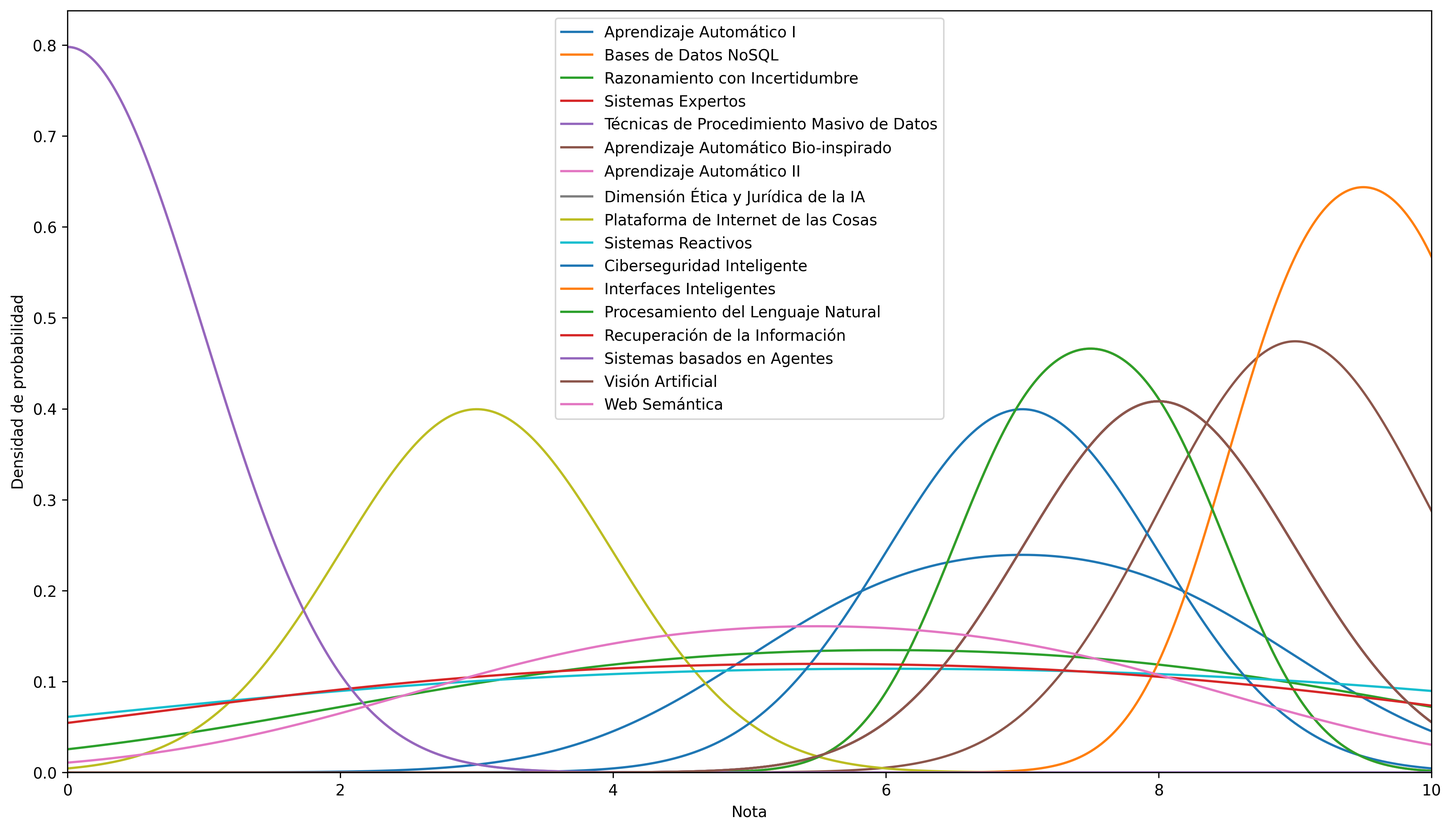
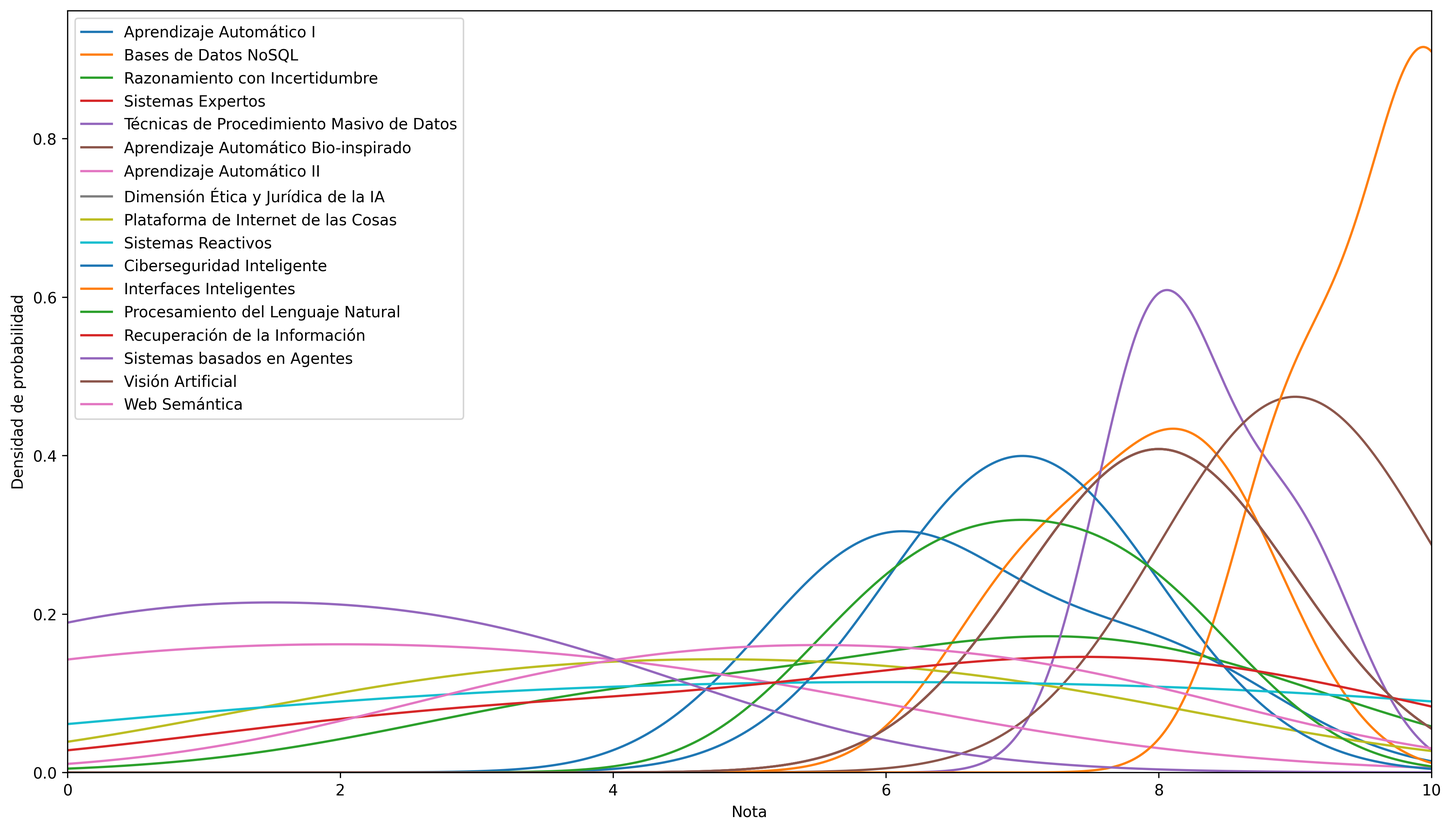
Executed main.py [GitHub Action]

diff --git a/README.md b/README.md
@@ -1,4 +1,4 @@
-# Asignaturas optativas del Grado en Inteligencia Artificial
+# Asignaturas optativas del Grado en Inteligencia Artificial 
 
 Este es un repositorio que calcula distintos métodos de votación y métricas para comparar las distintas asignaturas optativas del Grado en Inteligencia Artificial de la [Universidad de Vigo](https://www.uvigo.gal/). Los datos han sido obtenidos con este [cuestionario](https://docs.google.com/forms/d/e/1FAIpQLSeHNeIP01vFKP7Y-J_DAL-7Cn0_YEE-8jA3jm2dRxvhtSVvgA/viewform?usp=dialog) que envía su información a esta [hoja de cálculo](https://docs.google.com/spreadsheets/d/1WvO5IBgJ3F6b6zHFQD5eWSxN-IUe3ONEvazHEUGb3Qo).
 
@@ -6,25 +6,25 @@ Este es un repositorio que calcula distintos métodos de votación y métricas p
 
 Estas son distintas métricas para todas las asignaturas, ordenadas por su media.
 
-| <img width="1000"><br><p align="center">Asignatura | <img width="1000"><br><p align="center">Media | <img width="1000"><br><p align="center">Desviación típica | <img width="1000"><br><p align="center">Mediana | <img width="1000"><br><p align="center">Moda | <img width="1000"><br><p align="center">Máximo | <img width="1000"><br><p align="center">Mínimo | <img width="1000"><br><p align="center">Número de alumnos |
-| :------------------------------------------------- | :-------------------------------------------: | :-------------------------------------------------------: | :---------------------------------------------: | :------------------------------------------: | :--------------------------------------------: | :--------------------------------------------: | --------------------------------------------------------: |
-| Interfaces Inteligentes                            |                      9.5                      |                           0.71                            |                       9.5                       |                      9                       |                       10                       |                       9                        |                                                         2 |
-| Visión Artificial                                  |                     8.27                      |                           0.92                            |                        8                        |                      8                       |                      9.9                       |                       7                        |                                                         7 |
-| Técnicas de Procedimiento Masivo de Datos          |                     8.11                      |                           0.71                            |                        8                        |                      8                       |                       10                       |                       7                        |                                                        15 |
-| Bases de Datos NoSQL                               |                     7.96                      |                           0.94                            |                        8                        |                      8                       |                       10                       |                       6                        |                                                        16 |
-| Aprendizaje Automático Bio-inspirado               |                     7.91                      |                             2                             |                        9                        |                      9                       |                       10                       |                       4                        |                                                        15 |
-| Dimensión Ética y Jurídica de la IA                |                      7.8                      |                           1.31                            |                        8                        |                      8                       |                       10                       |                       5                        |                                                        14 |
-| Procesamiento del Lenguaje Natural                 |                     7.78                      |                            1.3                            |                        7                        |                      7                       |                       10                       |                       6                        |                                                         9 |
-| Ciberseguridad Inteligente                         |                     7.73                      |                           0.97                            |                        7                        |                      7                       |                      9.1                       |                       7                        |                                                         7 |
-| Sistemas Expertos                                  |                     7.59                      |                           1.19                            |                        8                        |                      8                       |                       9                        |                       5                        |                                                        16 |
-| Aprendizaje Automático I                           |                     7.37                      |                           1.18                            |                       7.5                       |                      8                       |                      9.6                       |                       5                        |                                                        17 |
-| Sistemas Reactivos                                 |                     6.99                      |                           2.12                            |                      7.15                       |                      6                       |                       10                       |                       3                        |                                                        16 |
-| Recuperación de la Información                     |                      6.1                      |                           1.91                            |                        7                        |                      7                       |                       8                        |                       3                        |                                                        10 |
-| Razonamiento con Incertidumbre                     |                     5.45                      |                           2.58                            |                        6                        |                      7                       |                       9                        |                       0                        |                                                        17 |
-| Web Semántica                                      |                     5.33                      |                           2.45                            |                        6                        |                      7                       |                       8                        |                       1                        |                                                         9 |
-| Plataforma de Internet de las Cosas                |                     2.46                      |                           1.84                            |                        3                        |                      3                       |                       5                        |                       0                        |                                                        14 |
-| Aprendizaje Automático II                          |                     2.08                      |                           2.45                            |                       1.5                       |                      0                       |                       9                        |                       0                        |                                                        16 |
-| Sistemas basados en Agentes                        |                       1                       |                           1.32                            |                        1                        |                      0                       |                       4                        |                       0                        |                                                         9 |
+| <img width="1000"><br><p align="center">Asignatura  | <img width="1000"><br><p align="center">Media  | <img width="1000"><br><p align="center">Desviación típica  | <img width="1000"><br><p align="center">Mediana  | <img width="1000"><br><p align="center">Moda  | <img width="1000"><br><p align="center">Máximo  | <img width="1000"><br><p align="center">Mínimo  | <img width="1000"><br><p align="center">Número de alumnos |
+|:--|:--:|:--:|:--:|:--:|:--:|:--:|--:|
+| Interfaces Inteligentes  | 9.67  | 0.58  | 10  | 10  | 10  | 9  | 3 |
+| Visión Artificial  | 8.27  | 0.92  | 8  | 8  | 9.9  | 7  | 7 |
+| Técnicas de Procedimiento Masivo de Datos  | 8.16  | 0.72  | 8  | 8  | 10  | 7  | 16 |
+| Bases de Datos NoSQL  | 7.99  | 0.92  | 8  | 8  | 10  | 6  | 17 |
+| Aprendizaje Automático Bio-inspirado  | 7.91  | 2  | 9  | 9  | 10  | 4  | 15 |
+| Dimensión Ética y Jurídica de la IA  | 7.81  | 1.26  | 8  | 8  | 10  | 5  | 15 |
+| Ciberseguridad Inteligente  | 7.73  | 0.97  | 7  | 7  | 9.1  | 7  | 7 |
+| Sistemas Expertos  | 7.61  | 1.16  | 8  | 8  | 9  | 5  | 17 |
+| Procesamiento del Lenguaje Natural  | 7.6  | 1.35  | 7  | 7  | 10  | 6  | 10 |
+| Aprendizaje Automático I  | 7.3  | 1.19  | 7.25  | 8  | 9.6  | 5  | 18 |
+| Sistemas Reactivos  | 6.99  | 2.12  | 7.15  | 6  | 10  | 3  | 16 |
+| Recuperación de la Información  | 6.23  | 1.86  | 7  | 7  | 8  | 3  | 11 |
+| Razonamiento con Incertidumbre  | 5.54  | 2.53  | 6.1  | 7  | 9  | 0  | 18 |
+| Web Semántica  | 5.33  | 2.45  | 6  | 7  | 8  | 1  | 9 |
+| Plataforma de Internet de las Cosas  | 2.73  | 2.06  | 3  | 3  | 6.5  | 0  | 15 |
+| Aprendizaje Automático II  | 2.19  | 2.42  | 2  | 0  | 9  | 0  | 17 |
+| Sistemas basados en Agentes  | 1.2  | 1.4  | 1  | 0  | 4  | 0  | 10 |
 
 ## Distribuciones de probabilidad
 
@@ -43,21 +43,27 @@ Estas son las distribuciones normales usando la media y desviación típica de c
 Para el método Schulze se necesita un ranking de cada votante para todas las opciones. Como en este caso tenemos una nota numérica, se pone que un votante prefiere una asignatura sobre otra si le ha dado una nota mayor. Esto se divide por el número de alumnos que han votado a las dos asignaturas para normalizar.
 
 | <img width="1000"><br><p align="center">Asignatura |
-| :------------------------------------------------: |
-|              Interfaces Inteligentes               |
-|        Aprendizaje Automático Bio-inspirado        |
-|     Técnicas de Procedimiento Masivo de Datos      |
-|                Bases de Datos NoSQL                |
-|                 Visión Artificial                  |
-|             Ciberseguridad Inteligente             |
-|        Dimensión Ética y Jurídica de la IA         |
-|                 Sistemas Expertos                  |
-|         Procesamiento del Lenguaje Natural         |
-|              Aprendizaje Automático I              |
-|                 Sistemas Reactivos                 |
-|           Recuperación de la Información           |
-|           Razonamiento con Incertidumbre           |
-|                   Web Semántica                    |
-|        Plataforma de Internet de las Cosas         |
-|             Aprendizaje Automático II              |
-|            Sistemas basados en Agentes             |
+|:--:|
+| Interfaces Inteligentes |
+| Aprendizaje Automático Bio-inspirado |
+| Técnicas de Procedimiento Masivo de Datos |
+| Bases de Datos NoSQL |
+| Visión Artificial |
+| Dimensión Ética y Jurídica de la IA |
+| Sistemas Expertos |
+| Ciberseguridad Inteligente |
+| Procesamiento del Lenguaje Natural |
+| Aprendizaje Automático I |
+| Sistemas Reactivos |
+| Recuperación de la Información |
+| Razonamiento con Incertidumbre |
+| Web Semántica |
+| Plataforma de Internet de las Cosas |
+| Aprendizaje Automático II |
+| Sistemas basados en Agentes |
+
+## Informes por año
+
+- ### [2026](./docs/README2026.md)
+
+- ### [2025](./docs/README2025.md)

diff --git a/docs/README2025.md b/docs/README2025.md
@@ -6,25 +6,25 @@ Este es un repositorio que calcula distintos métodos de votación y métricas p
 
 Estas son distintas métricas para todas las asignaturas, ordenadas por su media.
 
-| <img width="1000"><br><p align="center">Asignatura | <img width="1000"><br><p align="center">Media | <img width="1000"><br><p align="center">Desviación típica | <img width="1000"><br><p align="center">Mediana | <img width="1000"><br><p align="center">Moda | <img width="1000"><br><p align="center">Máximo | <img width="1000"><br><p align="center">Mínimo | <img width="1000"><br><p align="center">Número de alumnos |
-| :------------------------------------------------- | :-------------------------------------------: | :-------------------------------------------------------: | :---------------------------------------------: | :------------------------------------------: | :--------------------------------------------: | :--------------------------------------------: | --------------------------------------------------------: |
-| Visión Artificial                                  |                     8.32                      |                             1                             |                        8                        |                      8                       |                      9.9                       |                       7                        |                                                         6 |
-| Técnicas de Procedimiento Masivo de Datos          |                     8.12                      |                           0.77                            |                        8                        |                      8                       |                       10                       |                       7                        |                                                        13 |
-| Ciberseguridad Inteligente                         |                     8.02                      |                           1.03                            |                        8                        |                      7                       |                      9.1                       |                       7                        |                                                         5 |
-| Bases de Datos NoSQL                               |                     8.02                      |                           0.97                            |                        8                        |                      8                       |                       10                       |                       6                        |                                                        14 |
-| Procesamiento del Lenguaje Natural                 |                     7.86                      |                           1.46                            |                        7                        |                      7                       |                       10                       |                       6                        |                                                         7 |
-| Aprendizaje Automático Bio-inspirado               |                     7.83                      |                           2.05                            |                       8.5                       |                      10                      |                       10                       |                       4                        |                                                        14 |
-| Dimensión Ética y Jurídica de la IA                |                     7.78                      |                           1.36                            |                        8                        |                      7                       |                       10                       |                       5                        |                                                        13 |
-| Sistemas Expertos                                  |                     7.53                      |                           1.27                            |                      7.75                       |                      7                       |                       9                        |                       5                        |                                                        14 |
-| Aprendizaje Automático I                           |                     7.42                      |                           1.19                            |                       7.5                       |                      7                       |                      9.6                       |                       5                        |                                                        15 |
-| Sistemas Reactivos                                 |                     7.13                      |                            1.9                            |                      7.15                       |                      6                       |                       10                       |                       3                        |                                                        14 |
-| Recuperación de la Información                     |                     6.25                      |                           1.67                            |                        7                        |                      7                       |                       8                        |                       4                        |                                                         8 |
-| Razonamiento con Incertidumbre                     |                     5.38                      |                           2.64                            |                        6                        |                      7                       |                       9                        |                       0                        |                                                        15 |
-| Web Semántica                                      |                     5.29                      |                           2.69                            |                        6                        |                      6                       |                       8                        |                       1                        |                                                         7 |
-| Plataforma de Internet de las Cosas                |                     2.42                      |                           1.91                            |                        3                        |                      0                       |                       5                        |                       0                        |                                                        13 |
-| Aprendizaje Automático II                          |                     2.22                      |                           2.47                            |                        2                        |                      0                       |                       9                        |                       0                        |                                                        15 |
-| Sistemas basados en Agentes                        |                     1.12                      |                           1.36                            |                        1                        |                      0                       |                       4                        |                       0                        |                                                         8 |
-| Interfaces Inteligentes                            |                      nan                      |                            nan                            |                       nan                       |                     nan                      |                      nan                       |                      nan                       |                                                         0 |
+| <img width="1000"><br><p align="center">Asignatura  | <img width="1000"><br><p align="center">Media  | <img width="1000"><br><p align="center">Desviación típica  | <img width="1000"><br><p align="center">Mediana  | <img width="1000"><br><p align="center">Moda  | <img width="1000"><br><p align="center">Máximo  | <img width="1000"><br><p align="center">Mínimo  | <img width="1000"><br><p align="center">Número de alumnos |
+|:--|:--:|:--:|:--:|:--:|:--:|:--:|--:|
+| Visión Artificial  | 8.32  | 1  | 8  | 8  | 9.9  | 7  | 6 |
+| Técnicas de Procedimiento Masivo de Datos  | 8.12  | 0.77  | 8  | 8  | 10  | 7  | 13 |
+| Ciberseguridad Inteligente  | 8.02  | 1.03  | 8  | 7  | 9.1  | 7  | 5 |
+| Bases de Datos NoSQL  | 8.02  | 0.97  | 8  | 8  | 10  | 6  | 14 |
+| Procesamiento del Lenguaje Natural  | 7.86  | 1.46  | 7  | 7  | 10  | 6  | 7 |
+| Aprendizaje Automático Bio-inspirado  | 7.83  | 2.05  | 8.5  | 10  | 10  | 4  | 14 |
+| Dimensión Ética y Jurídica de la IA  | 7.78  | 1.36  | 8  | 7  | 10  | 5  | 13 |
+| Sistemas Expertos  | 7.53  | 1.27  | 7.75  | 7  | 9  | 5  | 14 |
+| Aprendizaje Automático I  | 7.42  | 1.19  | 7.5  | 7  | 9.6  | 5  | 15 |
+| Sistemas Reactivos  | 7.13  | 1.9  | 7.15  | 6  | 10  | 3  | 14 |
+| Recuperación de la Información  | 6.25  | 1.67  | 7  | 7  | 8  | 4  | 8 |
+| Razonamiento con Incertidumbre  | 5.38  | 2.64  | 6  | 7  | 9  | 0  | 15 |
+| Web Semántica  | 5.29  | 2.69  | 6  | 6  | 8  | 1  | 7 |
+| Plataforma de Internet de las Cosas  | 2.42  | 1.91  | 3  | 0  | 5  | 0  | 13 |
+| Aprendizaje Automático II  | 2.22  | 2.47  | 2  | 0  | 9  | 0  | 15 |
+| Sistemas basados en Agentes  | 1.12  | 1.36  | 1  | 0  | 4  | 0  | 8 |
+| Interfaces Inteligentes  | nan  | nan  | nan  | nan  | nan  | nan  | 0 |
 
 ## Distribuciones de probabilidad
 
@@ -43,21 +43,21 @@ Estas son las distribuciones normales usando la media y desviación típica de c
 Para el método Schulze se necesita un ranking de cada votante para todas las opciones. Como en este caso tenemos una nota numérica, se pone que un votante prefiere una asignatura sobre otra si le ha dado una nota mayor. Esto se divide por el número de alumnos que han votado a las dos asignaturas para normalizar.
 
 | <img width="1000"><br><p align="center">Asignatura |
-| :------------------------------------------------: |
-|                Bases de Datos NoSQL                |
-|     Técnicas de Procedimiento Masivo de Datos      |
-|        Aprendizaje Automático Bio-inspirado        |
-|                 Visión Artificial                  |
-|             Ciberseguridad Inteligente             |
-|        Dimensión Ética y Jurídica de la IA         |
-|         Procesamiento del Lenguaje Natural         |
-|                 Sistemas Expertos                  |
-|              Aprendizaje Automático I              |
-|                 Sistemas Reactivos                 |
-|           Recuperación de la Información           |
-|           Razonamiento con Incertidumbre           |
-|                   Web Semántica                    |
-|        Plataforma de Internet de las Cosas         |
-|             Aprendizaje Automático II              |
-|            Sistemas basados en Agentes             |
-|              Interfaces Inteligentes               |
+|:--:|
+| Bases de Datos NoSQL |
+| Técnicas de Procedimiento Masivo de Datos |
+| Aprendizaje Automático Bio-inspirado |
+| Visión Artificial |
+| Ciberseguridad Inteligente |
+| Dimensión Ética y Jurídica de la IA |
+| Procesamiento del Lenguaje Natural |
+| Sistemas Expertos |
+| Aprendizaje Automático I |
+| Sistemas Reactivos |
+| Recuperación de la Información |
+| Razonamiento con Incertidumbre |
+| Web Semántica |
+| Plataforma de Internet de las Cosas |
+| Aprendizaje Automático II |
+| Sistemas basados en Agentes |
+| Interfaces Inteligentes |

diff --git a/docs/README2026.md b/docs/README2026.md
@@ -6,25 +6,25 @@ Este es un repositorio que calcula distintos métodos de votación y métricas p
 
 Estas son distintas métricas para todas las asignaturas, ordenadas por su media.
 
-| <img width="1000"><br><p align="center">Asignatura | <img width="1000"><br><p align="center">Media | <img width="1000"><br><p align="center">Desviación típica | <img width="1000"><br><p align="center">Mediana | <img width="1000"><br><p align="center">Moda | <img width="1000"><br><p align="center">Máximo | <img width="1000"><br><p align="center">Mínimo | <img width="1000"><br><p align="center">Número de alumnos |
-| :------------------------------------------------- | :-------------------------------------------: | :-------------------------------------------------------: | :---------------------------------------------: | :------------------------------------------: | :--------------------------------------------: | :--------------------------------------------: | --------------------------------------------------------: |
-| Interfaces Inteligentes                            |                      9.5                      |                           0.71                            |                       9.5                       |                      9                       |                       10                       |                       9                        |                                                         2 |
-| Aprendizaje Automático Bio-inspirado               |                       9                       |                            nan                            |                        9                        |                      9                       |                       9                        |                       9                        |                                                         1 |
-| Visión Artificial                                  |                       8                       |                            nan                            |                        8                        |                      8                       |                       8                        |                       8                        |                                                         1 |
-| Dimensión Ética y Jurídica de la IA                |                       8                       |                            nan                            |                        8                        |                      8                       |                       8                        |                       8                        |                                                         1 |
-| Técnicas de Procedimiento Masivo de Datos          |                       8                       |                             0                             |                        8                        |                      8                       |                       8                        |                       8                        |                                                         2 |
-| Sistemas Expertos                                  |                       8                       |                             0                             |                        8                        |                      8                       |                       8                        |                       8                        |                                                         2 |
-| Bases de Datos NoSQL                               |                      7.5                      |                           0.71                            |                       7.5                       |                      7                       |                       8                        |                       7                        |                                                         2 |
-| Procesamiento del Lenguaje Natural                 |                      7.5                      |                           0.71                            |                       7.5                       |                      7                       |                       8                        |                       7                        |                                                         2 |
-| Aprendizaje Automático I                           |                       7                       |                           1.41                            |                        7                        |                      6                       |                       8                        |                       6                        |                                                         2 |
-| Ciberseguridad Inteligente                         |                       7                       |                             0                             |                        7                        |                      7                       |                       7                        |                       7                        |                                                         2 |
-| Sistemas Reactivos                                 |                       6                       |                           4.24                            |                        6                        |                      3                       |                       9                        |                       3                        |                                                         2 |
-| Razonamiento con Incertidumbre                     |                       6                       |                           2.83                            |                        6                        |                      4                       |                       8                        |                       4                        |                                                         2 |
-| Recuperación de la Información                     |                      5.5                      |                           3.54                            |                       5.5                       |                      3                       |                       8                        |                       3                        |                                                         2 |
-| Web Semántica                                      |                      5.5                      |                           2.12                            |                       5.5                       |                      4                       |                       7                        |                       4                        |                                                         2 |
-| Plataforma de Internet de las Cosas                |                       3                       |                            nan                            |                        3                        |                      3                       |                       3                        |                       3                        |                                                         1 |
-| Aprendizaje Automático II                          |                       0                       |                            nan                            |                        0                        |                      0                       |                       0                        |                       0                        |                                                         1 |
-| Sistemas basados en Agentes                        |                       0                       |                            nan                            |                        0                        |                      0                       |                       0                        |                       0                        |                                                         1 |
+| <img width="1000"><br><p align="center">Asignatura  | <img width="1000"><br><p align="center">Media  | <img width="1000"><br><p align="center">Desviación típica  | <img width="1000"><br><p align="center">Mediana  | <img width="1000"><br><p align="center">Moda  | <img width="1000"><br><p align="center">Máximo  | <img width="1000"><br><p align="center">Mínimo  | <img width="1000"><br><p align="center">Número de alumnos |
+|:--|:--:|:--:|:--:|:--:|:--:|:--:|--:|
+| Interfaces Inteligentes  | 9.67  | 0.58  | 10  | 10  | 10  | 9  | 3 |
+| Aprendizaje Automático Bio-inspirado  | 9  | nan  | 9  | 9  | 9  | 9  | 1 |
+| Técnicas de Procedimiento Masivo de Datos  | 8.33  | 0.58  | 8  | 8  | 9  | 8  | 3 |
+| Visión Artificial  | 8  | nan  | 8  | 8  | 8  | 8  | 1 |
+| Dimensión Ética y Jurídica de la IA  | 8  | 0  | 8  | 8  | 8  | 8  | 2 |
+| Sistemas Expertos  | 8  | 0  | 8  | 8  | 8  | 8  | 3 |
+| Bases de Datos NoSQL  | 7.83  | 0.76  | 8  | 7  | 8.5  | 7  | 3 |
+| Ciberseguridad Inteligente  | 7  | 0  | 7  | 7  | 7  | 7  | 2 |
+| Procesamiento del Lenguaje Natural  | 7  | 1  | 7  | 6  | 8  | 6  | 3 |
+| Aprendizaje Automático I  | 6.67  | 1.15  | 6  | 6  | 8  | 6  | 3 |
+| Razonamiento con Incertidumbre  | 6.33  | 2.08  | 7  | 4  | 8  | 4  | 3 |
+| Recuperación de la Información  | 6.17  | 2.75  | 7.5  | 3  | 8  | 3  | 3 |
+| Sistemas Reactivos  | 6  | 4.24  | 6  | 3  | 9  | 3  | 2 |
+| Web Semántica  | 5.5  | 2.12  | 5.5  | 4  | 7  | 4  | 2 |
+| Plataforma de Internet de las Cosas  | 4.75  | 2.47  | 4.75  | 3  | 6.5  | 3  | 2 |
+| Aprendizaje Automático II  | 2  | 2.83  | 2  | 0  | 4  | 0  | 2 |
+| Sistemas basados en Agentes  | 1.5  | 2.12  | 1.5  | 0  | 3  | 0  | 2 |
 
 ## Distribuciones de probabilidad
 
@@ -43,21 +43,21 @@ Estas son las distribuciones normales usando la media y desviación típica de c
 Para el método Schulze se necesita un ranking de cada votante para todas las opciones. Como en este caso tenemos una nota numérica, se pone que un votante prefiere una asignatura sobre otra si le ha dado una nota mayor. Esto se divide por el número de alumnos que han votado a las dos asignaturas para normalizar.
 
 | <img width="1000"><br><p align="center">Asignatura |
-| :------------------------------------------------: |
-|              Interfaces Inteligentes               |
-|        Aprendizaje Automático Bio-inspirado        |
-|                 Visión Artificial                  |
-|        Dimensión Ética y Jurídica de la IA         |
-|     Técnicas de Procedimiento Masivo de Datos      |
-|                 Sistemas Expertos                  |
-|                Bases de Datos NoSQL                |
-|         Procesamiento del Lenguaje Natural         |
-|              Aprendizaje Automático I              |
-|             Ciberseguridad Inteligente             |
-|                 Sistemas Reactivos                 |
-|           Razonamiento con Incertidumbre           |
-|           Recuperación de la Información           |
-|                   Web Semántica                    |
-|        Plataforma de Internet de las Cosas         |
-|             Aprendizaje Automático II              |
-|            Sistemas basados en Agentes             |
+|:--:|
+| Interfaces Inteligentes |
+| Aprendizaje Automático Bio-inspirado |
+| Visión Artificial |
+| Técnicas de Procedimiento Masivo de Datos |
+| Dimensión Ética y Jurídica de la IA |
+| Sistemas Expertos |
+| Bases de Datos NoSQL |
+| Ciberseguridad Inteligente |
+| Procesamiento del Lenguaje Natural |
+| Aprendizaje Automático I |
+| Razonamiento con Incertidumbre |
+| Recuperación de la Información |
+| Sistemas Reactivos |
+| Web Semántica |
+| Plataforma de Internet de las Cosas |
+| Aprendizaje Automático II |
+| Sistemas basados en Agentes |
